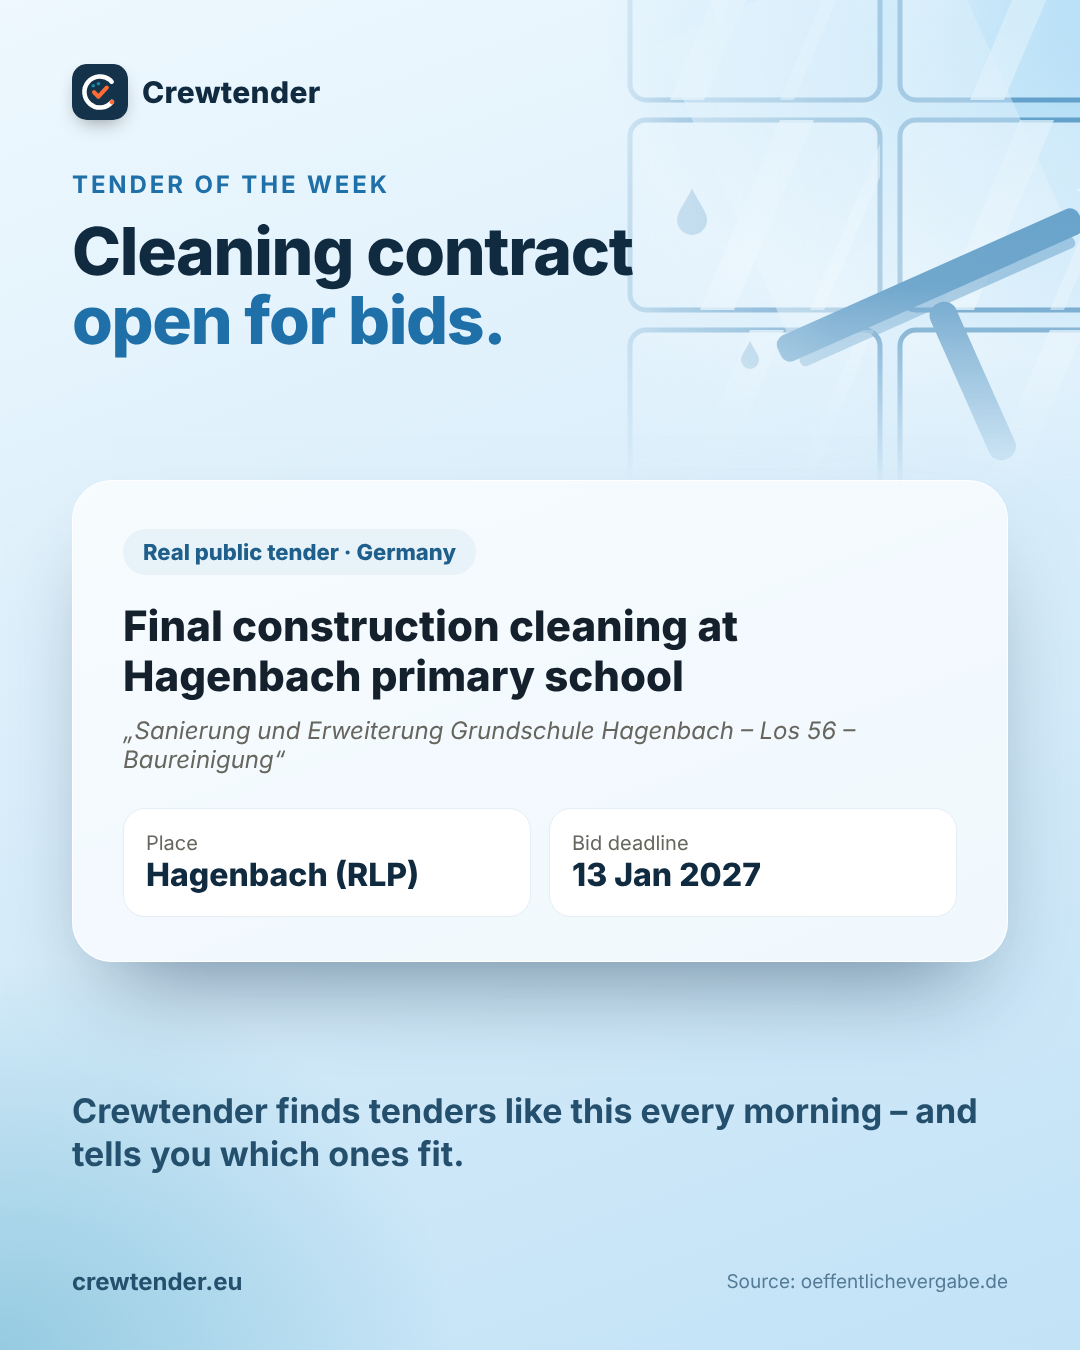
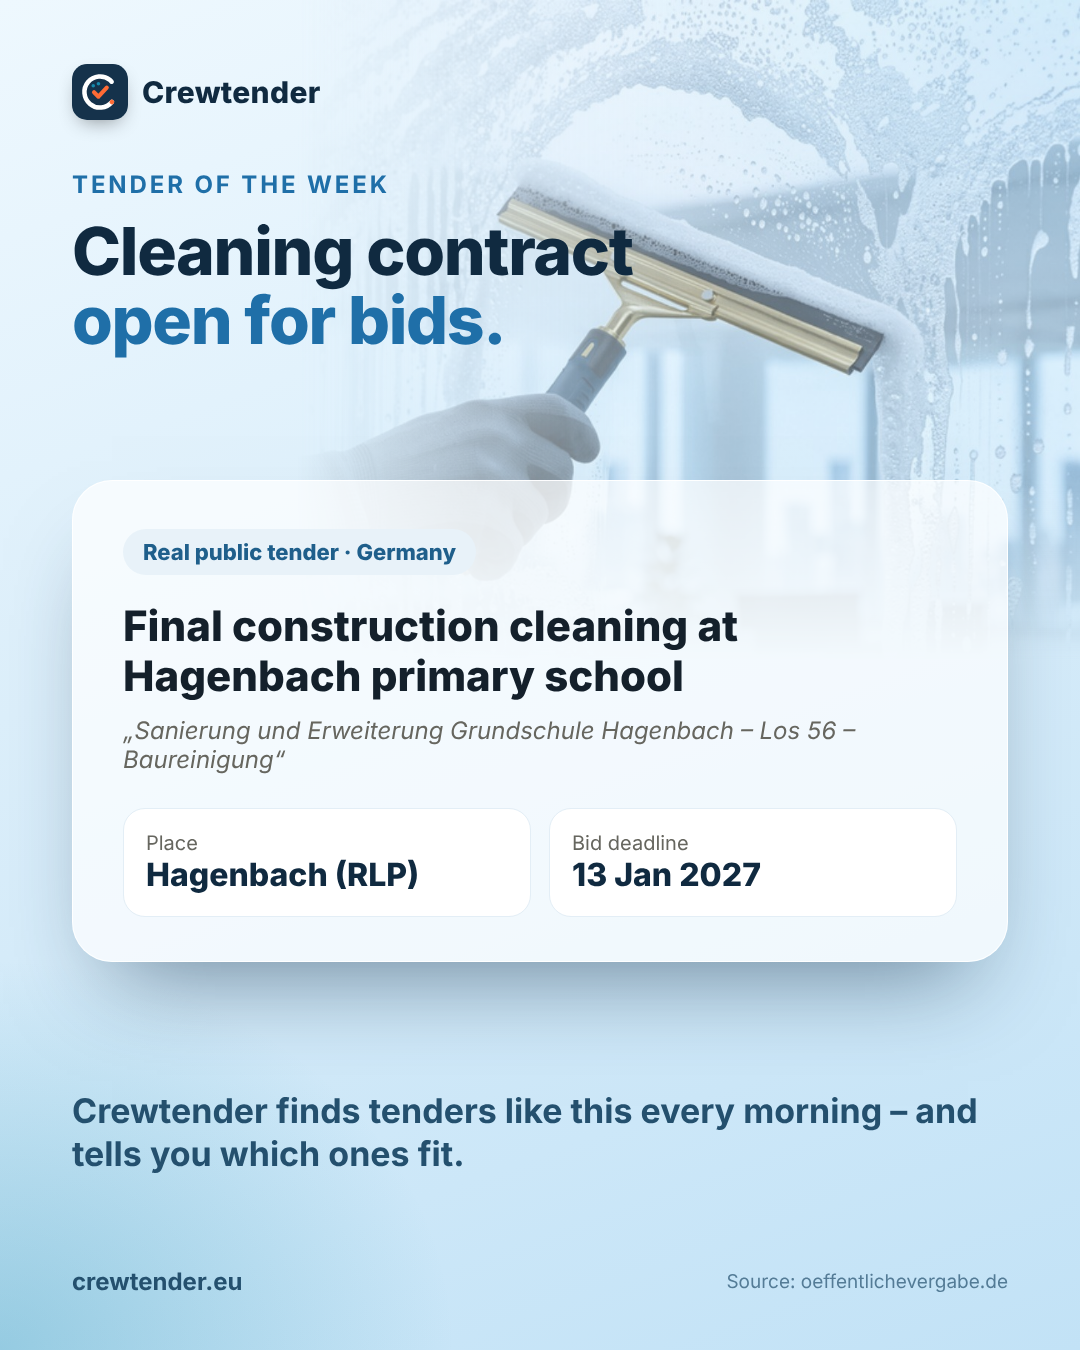
Facebook/Instagram: Bilder mit Fotos im Hintergrund
Sieben mit Canva erzeugte Bilder (KI, keine echten Personen) unter fotos/; helle Posts
zeigen das Foto rechts oben durchschimmernd, dunkle über das ganze Bild unter Blau.

Claude-Session: https://claude.ai/code/session_01WxgUrjbh3nfJmBPDxVDDQY

Changed region(s): [[0.3361, 0.0, 1.0, 0.4356], [0.9778, 0.0, 1.0, 0.0311]]

diff --git a/docs/design/crewtender/posts/woche-2026-48/bauen.py b/docs/design/crewtender/posts/woche-2026-48/bauen.py
@@ -1,10 +1,10 @@
 """Facebook/Instagram package, weeks 48-50/2026 (posts Fri 27.11. to Fri 11.12., three a week). Data from
 `social.py woche` (run 26.11.2026): new public tenders 19-25 Nov 2026 per trade, best current tender. The tips use
-the texts of alarm/social.py (TIPPS) with example data. Writes HTML; render with: node rendern.cjs."""
+the texts of alarm/social.py (TIPPS) with example data. Backgrounds: photos from ../fotos (see ../motive.py). Writes HTML; render with: node rendern.cjs."""
 import pathlib, re, sys
 hier = pathlib.Path(__file__).parent
 sys.path.insert(0, str(hier.parent))
-from motive import motiv  # noqa: E402
+from motive import foto  # noqa: E402
 quelle = (hier.parent / "entwuerfe.py").read_text(encoding="utf-8")
 LOGO = re.search(r"LOGO = '''(.*?)'''", quelle, re.S).group(1)
 BASE = re.search(r"BASE = '''(.*?)'''", quelle, re.S).group(1)
@@ -20,9 +20,9 @@ def tipp(kopf: str, zeile1: str, zeile2: str, text: str, zeilen: list[tuple[str,
     karten = "".join(f'''<div style="display:flex;align-items:center;gap:22px;padding:24px 30px;border-radius:24px;background:#fff;border:1px solid #e3eef6;margin-bottom:16px;box-shadow:0 20px 40px -28px rgba(21,50,75,.5)">
 <span style="flex:0 0 14px;height:64px;border-radius:7px;background:{farbe}"></span><div style="flex:1"><div style="font-size:30px;font-weight:800;color:#14202b">{t}</div><div style="font-size:21px;color:#66665f;margin-top:4px">{n}</div></div>
 <span style="font-size:24px;font-weight:800;color:{farbe};text-align:right;white-space:nowrap">{rechts}</span></div>''' for t, n, rechts, farbe in zeilen)
-    return BASE + f'''<div class="post" style="{DUNKEL if dunkel else HELL}">{motiv(bild, dunkel)}{marke}
+    return BASE + f'''<div class="post" style="{DUNKEL if dunkel else HELL}">{foto(bild, dunkel)}{marke}
 <div style="position:absolute;left:72px;right:72px;top:170px"><div style="font-size:24px;font-weight:700;color:{akzent};letter-spacing:.12em;text-transform:uppercase;margin-bottom:18px">{kopf}</div>
-<div style="font-size:74px;font-weight:850;line-height:1.03;letter-spacing:-.025em">{zeile1}<br><span style="color:{akzent}">{zeile2}</span></div>
+<div style="font-size:74px;font-weight:850;line-height:1.03;letter-spacing:-.025em;{"text-shadow:0 4px 24px rgba(10,40,65,.45)" if dunkel else ""}">{zeile1}<br><span style="color:{akzent}">{zeile2}</span></div>
 <div style="font-size:30px;line-height:1.35;margin-top:26px;color:{satz};max-width:610px">{text}</div></div>
 <div style="position:absolute;left:72px;right:72px;top:640px">{karten}</div>
 <div class="fuss" style="color:{rand}"><span style="font-weight:700">crewtender.eu</span><span class="klein">{fuss}</span></div></div></body></html>'''
@@ -33,7 +33,7 @@ gewerke = [("Joinery", 80), ("Electrical work", 66), ("Plumbing & heating", 66),
 hoechst = max(n for _, n in gewerke)
 balken = "".join(f'''<div style="display:grid;grid-template-columns:330px 1fr 60px;align-items:center;gap:16px;margin-bottom:14px"><span style="font-size:24px;font-weight:600">{g}</span>
 <span style="height:30px;border-radius:9px;background:linear-gradient(90deg,#bfe7ff,#ffffff);width:{round(100 * n / hoechst)}%"></span><span style="font-size:26px;font-weight:800;text-align:right">{n}</span></div>''' for g, n in gewerke)
-p1 = BASE + f'''<div class="post" style="{DUNKEL}">{motiv("haeuser", True)}{marke}
+p1 = BASE + f'''<div class="post" style="{DUNKEL}">{foto("haeuser", True)}{marke}
 <div style="position:absolute;left:72px;right:72px;top:170px"><div style="font-size:24px;font-weight:700;color:#d4efff;letter-spacing:.12em;text-transform:uppercase;margin-bottom:10px">Number of the week · 19–25 Nov 2026</div>
 <div style="font-size:190px;font-weight:850;letter-spacing:-.045em;line-height:1">1,702</div>
 <div style="font-size:40px;font-weight:800;line-height:1.15;margin-top:34px">new public tenders in Germany</div></div>
@@ -42,7 +42,7 @@ p1 = BASE + f'''<div class="post" style="{DUNKEL}">{motiv("haeuser", True)}{mark
 <div class="fuss" style="color:#eaf6fd"><span style="font-weight:700">crewtender.eu</span><span class="klein">Source: oeffentlichevergabe.de</span></div></div></body></html>'''
 
 # 2 — Mon 30.11.: tender of the week (real notice)
-p2 = BASE + f'''<div class="post" style="{HELL}">{motiv("fenster")}{marke}
+p2 = BASE + f'''<div class="post" style="{HELL}">{foto("fenster")}{marke}
 <div style="position:absolute;left:72px;right:72px;top:170px"><div style="font-size:24px;font-weight:700;color:#1f6fa8;letter-spacing:.12em;text-transform:uppercase;margin-bottom:18px">Tender of the week</div>
 <div style="font-size:66px;font-weight:850;line-height:1.05;letter-spacing:-.02em">Cleaning contract<br><span style="color:#1f6fa8">open for bids.</span></div></div>
 <div style="position:absolute;left:72px;right:72px;top:480px;padding:48px 50px 44px;border-radius:40px;background:rgba(255,255,255,.7);border:1.5px solid rgba(255,255,255,.95);box-shadow:0 50px 90px -40px rgba(21,50,75,.55)">
@@ -58,12 +58,12 @@ p2 = BASE + f'''<div class="post" style="{HELL}">{motiv("fenster")}{marke}
 # 3 — Wed 02.12.: rating (example data)
 p3 = tipp("Crewtender tip", "Which tenders", "fit your company?", "Every morning Crewtender rates new tenders for your company, 1–10, with a short reason.", [
     ("Cleaning of 3 schools", "Your trade, your region", "9 / 10", GRUEN), ("Security, town hall", "Fits – night shifts required", "7 / 10", BLAU),
-    ("Winter service, 25 sites", "Far from your sites", "4 / 10", GELB), ("Road construction, lot 2", "Not your trade", "1 / 10", GRAU)], "Example tenders for illustration", "ziel")
+    ("Winter service, 25 sites", "Far from your sites", "4 / 10", GELB), ("Road construction, lot 2", "Not your trade", "1 / 10", GRAU)], "Example tenders for illustration", "checkliste")
 
 # 4 — Fri 04.12.: fact sheet (example data)
 p4 = tipp("Crewtender tip", "Tender documents,", "read in minutes.", "Upload the tender documents and Crewtender writes a fact sheet: lots, quantities, deadlines and required evidence.", [
     ("Lots", "3 lots · bids per lot allowed", "", BLAU), ("Quantities", "12,400 m² floor area · 5 days a week", "", BLAU),
-    ("Deadlines", "Questions until 4 Dec · bid by 15 Dec", "", GELB), ("Required evidence", "Liability insurance · references · tax clearance", "", GRUEN)], "Example fact sheet for illustration", "blaetter", dunkel=True)
+    ("Deadlines", "Questions until 4 Dec · bid by 15 Dec", "", GELB), ("Required evidence", "Liability insurance · references · tax clearance", "", GRUEN)], "Example fact sheet for illustration", "unterlagen", dunkel=True)
 
 # 5 — Mon 07.12.: team (example data)
 p5 = tipp("Crewtender tip", "Won the contract?", "Plan your crew.", "Shift plan, timesheets and proof of service in one place – and an app for your crew in 6 languages.", [
@@ -78,7 +78,7 @@ p6 = tipp("Crewtender tip", "Search real tenders.", "No sign-up.", "Try the demo
 # 7 — Fri 11.12.: deadlines (example data)
 p7 = tipp("Crewtender tip", "Bid deadlines", "under control.", "Crewtender reminds you 7 and 2 days before each deadline – by e-mail and on your phone.", [
     ("Catering, school canteen", "Reminder sent today", "Bid due in 2 days", ROT), ("Building cleaning, lot 3", "Reminder sent today", "Bid due in 7 days", GELB),
-    ("Security, event hall", "Reminders 7 and 2 days before", "Bid due in 16 days", BLAU), ("Electrical work, sports hall", "Bidder questions deadline", "Questions until 18 Dec", BLAU)], "Example tenders for illustration", "kalender")
+    ("Security, event hall", "Reminders 7 and 2 days before", "Bid due in 16 days", BLAU), ("Electrical work, sports hall", "Bidder questions deadline", "Questions until 18 Dec", BLAU)], "Example tenders for illustration", "wecker")
 
 for n, h in [("1-fr-zahl-der-woche", p1), ("2-mo-ausschreibung-der-woche", p2), ("3-mi-bewertung", p3), ("4-fr-steckbrief", p4), ("5-mo-team", p5), ("6-mi-suche", p6), ("7-fr-fristen", p7)]:
     (hier / f"{n}.html").write_text(h, encoding="utf-8")

diff --git a/docs/design/crewtender/posts/motive.py b/docs/design/crewtender/posts/motive.py
@@ -103,3 +103,29 @@ def motiv(name: str, dunkel: bool = False) -> str:
     return (f'<div style="position:absolute;right:{rechts}px;top:{oben}px;width:{breite}px;height:{breite}px;opacity:{deck};'
             f'-webkit-mask-image:{maske};-webkit-mask-composite:source-in;mask-image:{maske};mask-composite:intersect">'
             f'<svg viewBox="0 0 600 600" width="{breite}" height="{breite}" xmlns="http://www.w3.org/2000/svg">{zeichnung(f, glas)}</svg></div>')
+
+
+# Photos (Benjamin, 26.11.2026: he chose photos over the drawings). Generated with Canva's image generation in his
+# account (AI pictures, no stock photos, no real persons), stored in fotos/. Name -> width, distance from the right
+# edge and from the top for the light posts; for the dark posts whether the photo is mirrored (subject to the right).
+FOTOS = {"fenster": (800, 0, 0, False), "haeuser": (800, 0, 0, False), "checkliste": (800, -130, -60, False), "unterlagen": (800, 0, 0, True),
+         "team": (620, -110, 0, False), "lupe": (800, 0, 0, True), "wecker": (800, -60, -100, False)}
+# Dark posts only: enlarged and moved so the subject sits top right, as CSS background size and position.
+AUSSCHNITT = {"lupe": "1242px auto", }
+AUSSCHNITT_LAGE = {"lupe": "-124px -143px"}
+
+
+def foto(name: str, dunkel: bool = False, ordner: str = "../fotos") -> str:
+    """The photo as a layer behind the text. Light posts: top right, fading out towards the text on the left and
+    above the cards. Dark posts: over the whole picture under a blue veil."""
+    breite, rechts, oben, spiegeln = FOTOS[name]
+    bild = f"url('{ordner}/{name}.jpg')"
+    if dunkel:
+        lage = f"{AUSSCHNITT_LAGE[name]}/{AUSSCHNITT[name]} no-repeat" if name in AUSSCHNITT else "center/cover"
+        return (f'<div style="position:absolute;inset:0;background:{bild} {lage};{"transform:scaleX(-1);" if spiegeln else ""}"></div>'
+                '<div style="position:absolute;inset:0;background:linear-gradient(170deg,rgba(31,111,168,.80) 0%,rgba(31,111,168,.62) 30%,rgba(21,80,126,.86) 62%,rgba(15,58,90,.96) 100%)"></div>')
+    hoehe = round(breite * 1.25)
+    voll, weg = round(100 * (480 - oben) / hoehe), round(100 * (660 - oben) / hoehe)
+    maske = f"linear-gradient(90deg,transparent 2%,rgba(0,0,0,.55) 26%,#000 52%),linear-gradient(180deg,#000 {voll}%,transparent {weg}%)"
+    return (f'<div style="position:absolute;right:{rechts}px;top:{oben}px;width:{breite}px;height:{hoehe}px;background:{bild} center top/cover;opacity:.62;'
+            f'-webkit-mask-image:{maske};-webkit-mask-composite:source-in;mask-image:{maske};mask-composite:intersect"></div>')
